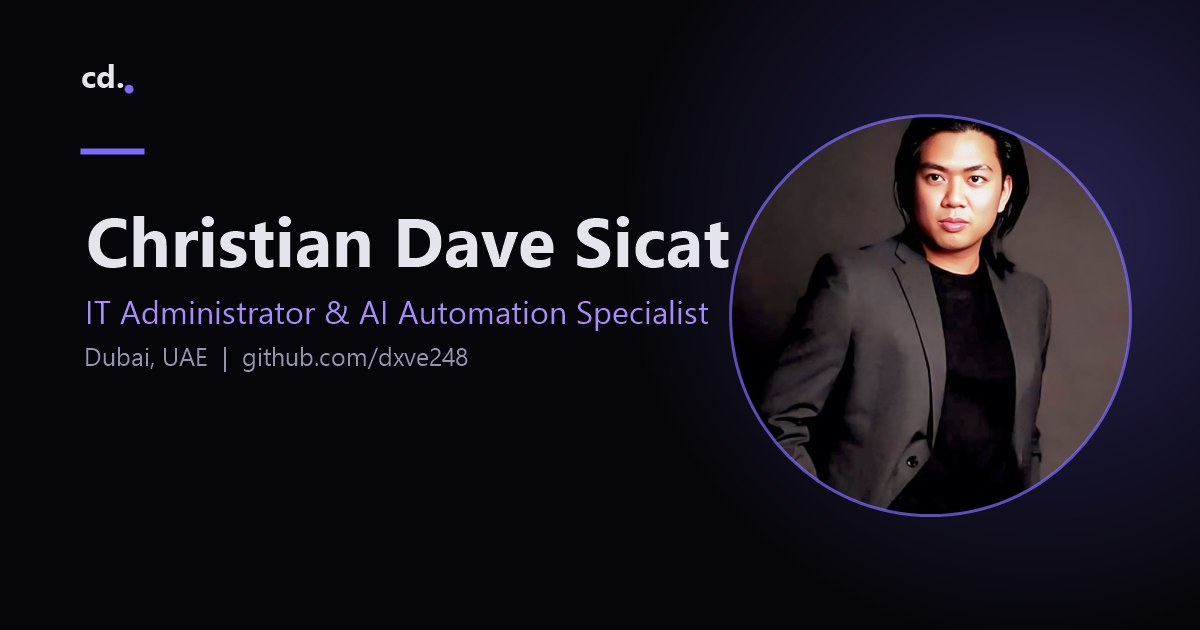
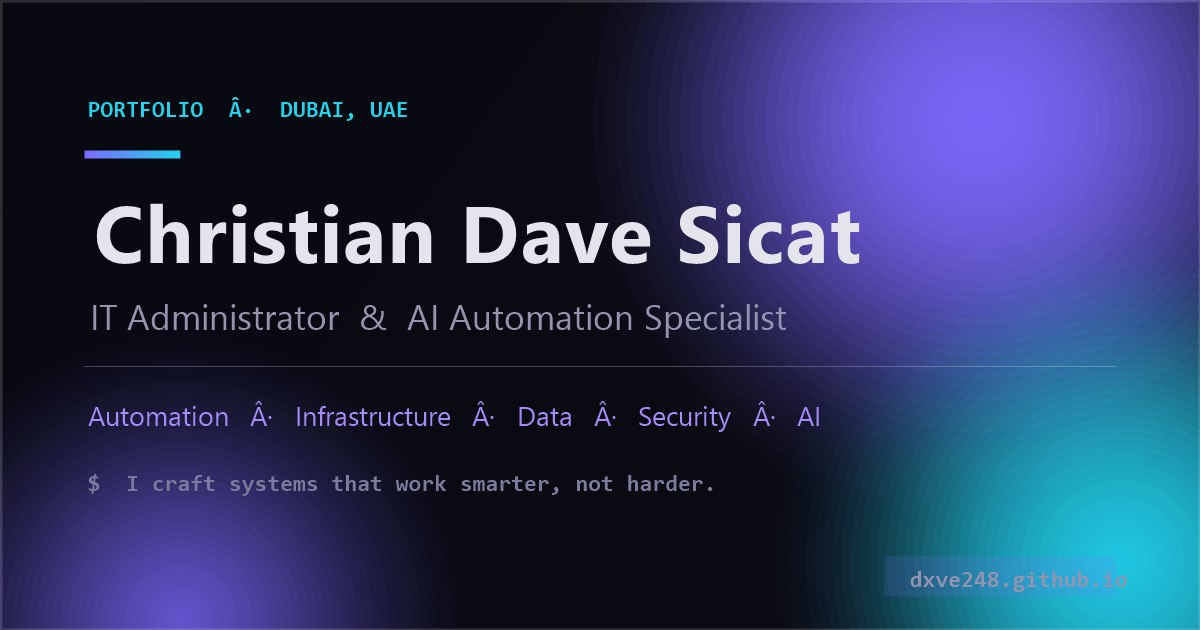
portfolio

diff --git a/404.html b/404.html
@@ -1,0 +1,83 @@
+<!DOCTYPE html>
+<html lang="en">
+<head>
+<meta charset="UTF-8">
+<meta name="viewport" content="width=device-width, initial-scale=1.0">
+<meta name="theme-color" content="#06060a">
+<title>404 · Christian Dave Sicat</title>
+<meta name="description" content="Page not found — Christian Dave Sicat's portfolio.">
+<meta name="robots" content="noindex">
+<link rel="icon" href="assets/favicon.svg" type="image/svg+xml">
+<link rel="apple-touch-icon" href="assets/apple-touch-icon.png">
+<link rel="preconnect" href="https://fonts.googleapis.com">
+<link rel="preconnect" href="https://fonts.gstatic.com" crossorigin>
+<link href="https://fonts.googleapis.com/css2?family=Sora:wght@600;800&family=JetBrains+Mono:wght@400;600&display=swap" rel="stylesheet">
+<style>
+    *, *::before, *::after { box-sizing: border-box; margin: 0; padding: 0; }
+    :root {
+        --bg: #06060a; --surface: #16162a; --border: rgba(255,255,255,0.08);
+        --text: #e4e4ed; --text-2: #9494b0; --text-3: #7b7b9e;
+        --accent: #7c6aff; --accent-3: #22d3ee;
+        --gradient-2: linear-gradient(135deg, #7c6aff 0%, #a78bfa 45%, #22d3ee 100%);
+    }
+    body {
+        min-height: 100vh; display: flex; align-items: center; justify-content: center;
+        background: var(--bg); color: var(--text); font-family: 'Inter', system-ui, -apple-system, sans-serif;
+        padding: 2rem; position: relative; overflow: hidden; text-align: center;
+    }
+    body::before, body::after {
+        content: ""; position: fixed; border-radius: 50%; filter: blur(120px); pointer-events: none; z-index: 0;
+    }
+    body::before { width: 560px; height: 560px; background: rgba(124,106,255,0.18); top: -160px; right: -120px; }
+    body::after { width: 420px; height: 420px; background: rgba(34,211,238,0.10); bottom: -140px; left: -100px; }
+    .wrap { position: relative; z-index: 1; max-width: 620px; }
+    .code {
+        font-family: 'Sora', sans-serif; font-weight: 800; line-height: 1;
+        font-size: clamp(6rem, 26vw, 13rem); letter-spacing: -0.04em;
+        background: var(--gradient-2); -webkit-background-clip: text; background-clip: text; color: transparent;
+    }
+    .tag {
+        font-family: 'JetBrains Mono', monospace; font-size: 0.78rem; letter-spacing: 0.16em;
+        text-transform: uppercase; color: var(--accent-3); margin: 0.4rem 0 1.4rem;
+    }
+    h1 { font-family: 'Sora', sans-serif; font-size: clamp(1.5rem, 4vw, 2.2rem); font-weight: 700; margin-bottom: 0.9rem; }
+    p { color: var(--text-2); line-height: 1.7; margin-bottom: 2.2rem; }
+    .actions { display: flex; gap: 0.8rem; justify-content: center; flex-wrap: wrap; }
+    a.btn {
+        display: inline-flex; align-items: center; gap: 0.5rem; text-decoration: none;
+        padding: 0.85rem 1.6rem; border-radius: 12px; font-weight: 600; font-size: 0.92rem;
+        transition: transform 0.3s cubic-bezier(0.16,1,0.3,1), box-shadow 0.3s, border-color 0.3s;
+    }
+    a.primary { background: var(--gradient-2); color: #fff; }
+    a.primary:hover { transform: translateY(-2px); box-shadow: 0 14px 34px rgba(124,106,255,0.4); }
+    a.ghost { border: 1px solid var(--border); color: var(--text); background: var(--surface); }
+    a.ghost:hover { transform: translateY(-2px); border-color: rgba(130,120,255,0.35); }
+    .term {
+        margin-top: 2.6rem; font-family: 'JetBrains Mono', monospace; font-size: 0.78rem; color: var(--text-3);
+        border: 1px solid var(--border); border-radius: 12px; background: rgba(12,12,20,0.6);
+        padding: 0.9rem 1.1rem; text-align: left; overflow-x: auto; white-space: nowrap;
+    }
+    .term .p { color: var(--accent); }
+    .term .ok { color: #34d399; }
+</style>
+</head>
+<body>
+    <main class="wrap">
+        <div class="code">404</div>
+        <div class="tag">Page not found</div>
+        <h1>This page took an unscheduled outage.</h1>
+        <p>Even the best-run systems hit a 404 now and then. The link you followed doesn't exist — but everything else is very much up.</p>
+        <div class="actions">
+            <a class="btn primary" href="index.html">&#8592; Back to portfolio</a>
+            <a class="btn ghost" href="cv.html">View CV</a>
+        </div>
+        <div class="term">
+            <span class="p">$</span> curl -I <span id="path">/</span> &nbsp;&#8594;&nbsp; <span class="ok">404 Not Found</span>
+        </div>
+    </main>
+    <script>
+        var p = document.getElementById('path');
+        if (p && location.pathname) p.textContent = location.pathname;
+    </script>
+</body>
+</html>

diff --git a/styles.css b/styles.css
@@ -1958,3 +1958,27 @@
         @media (prefers-reduced-motion: reduce) {
             .kinetic-track { animation: none; }
         }
+
+        /* ===== FINAL POLISH ===== */
+        html { scroll-padding-top: 96px; }
+        @media (max-width: 900px) { html { scroll-padding-top: 84px; } }
+
+        /* Below-fold perf: defer rendering until near viewport */
+        #about, #whyhire, #skills, #terminal, #automation,
+        #experience, #education, #testimonials, #contact {
+            content-visibility: auto;
+            contain-intrinsic-size: auto 900px;
+        }
+
+        @media print {
+            .ambient-light, .hero-canvas, .noise, #particles, .kinetic-strip,
+            .case-overlay, .case-drawer, .back-to-top, #scrollProgress,
+            .case-btn, .ops-spark, .flow-pulse, .flow-icon, .scroll-progress {
+                display: none !important;
+            }
+            .flow-node, .flow-chip { opacity: 1 !important; filter: none !important; transform: none !important; box-shadow: none !important; }
+            .ops-panel { box-shadow: none !important; background: #fff !important; border-color: #ddd !important; }
+            .ops-val { background: none !important; -webkit-text-fill-color: #111827 !important; color: #111827 !important; }
+            .ops-dot, .ops-live { display: none !important; }
+            .case-metric strong { background: none !important; -webkit-text-fill-color: #111827 !important; color: #111827 !important; }
+        }

diff --git a/main.js b/main.js
@@ -993,7 +993,15 @@
             btn.addEventListener('click', () => openCase(i));
             actions.appendChild(btn);
             const visual = card.querySelector('.project-visual');
-            if (visual) visual.addEventListener('click', () => openCase(i));
+            if (visual) {
+                visual.setAttribute('role', 'button');
+                visual.setAttribute('tabindex', '0');
+                visual.setAttribute('aria-label', 'Open case study: ' + (CASE_STUDIES[i] ? CASE_STUDIES[i].title : 'project'));
+                visual.addEventListener('click', () => openCase(i));
+                visual.addEventListener('keydown', e => {
+                    if (e.key === 'Enter' || e.key === ' ') { e.preventDefault(); openCase(i); }
+                });
+            }
         });
     }
 

diff --git a/assets/hero-mesh.js b/assets/hero-mesh.js
@@ -9,6 +9,12 @@
     var reduceQuery = window.matchMedia('(prefers-reduced-motion: reduce)');
     var prefersReduced = reduceQuery.matches;
 
+    var conn = navigator.connection || navigator.mozConnection || navigator.webkitConnection;
+    var saveData = !!(conn && conn.saveData);
+    var narrow = window.matchMedia('(max-width: 760px)').matches;
+    var lowMem = typeof navigator.deviceMemory === 'number' && navigator.deviceMemory < 4;
+    if (saveData || narrow || lowMem) { return; }
+
     var gl = canvas.getContext('webgl', {
         antialias: false,
         alpha: false,

diff --git a/index.html b/index.html
@@ -134,7 +134,7 @@
     <div class="hero-content">
         <div class="hero-profile-wrap reveal">
             <div class="hero-profile">
-                <img src="assets/profile.jpg" alt="Christian Dave Sicat" width="720" height="1115" loading="eager" decoding="async">
+                <img src="assets/profile.jpg" alt="Christian Dave Sicat" width="720" height="1115" loading="eager" fetchpriority="high" decoding="async">
                 <div class="hero-profile-ring"></div>
             </div>
             <div class="hero-profile-status">
